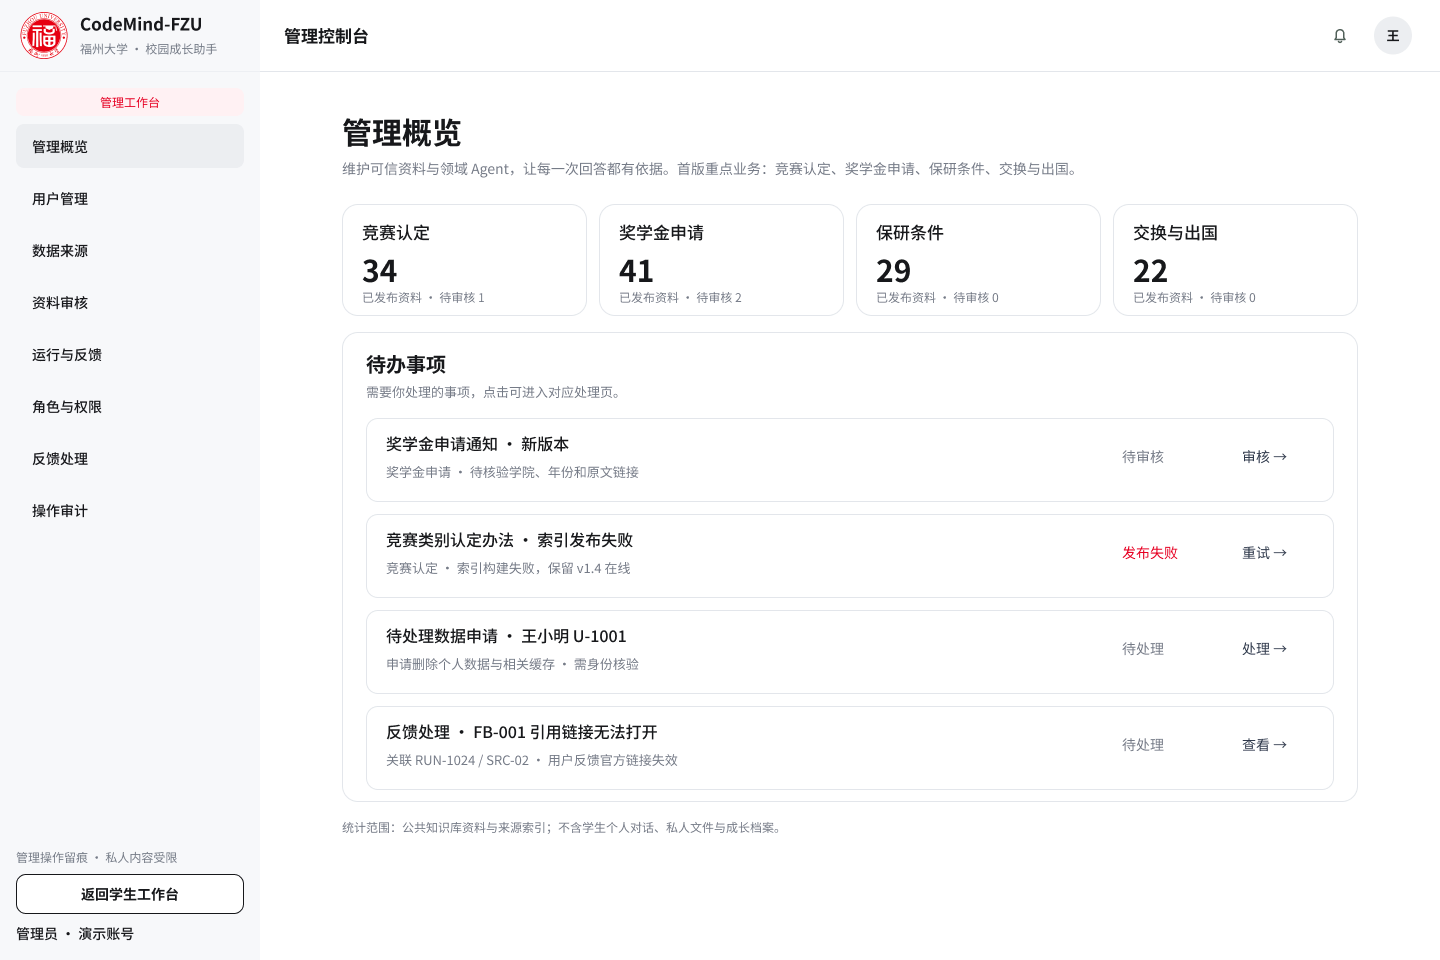
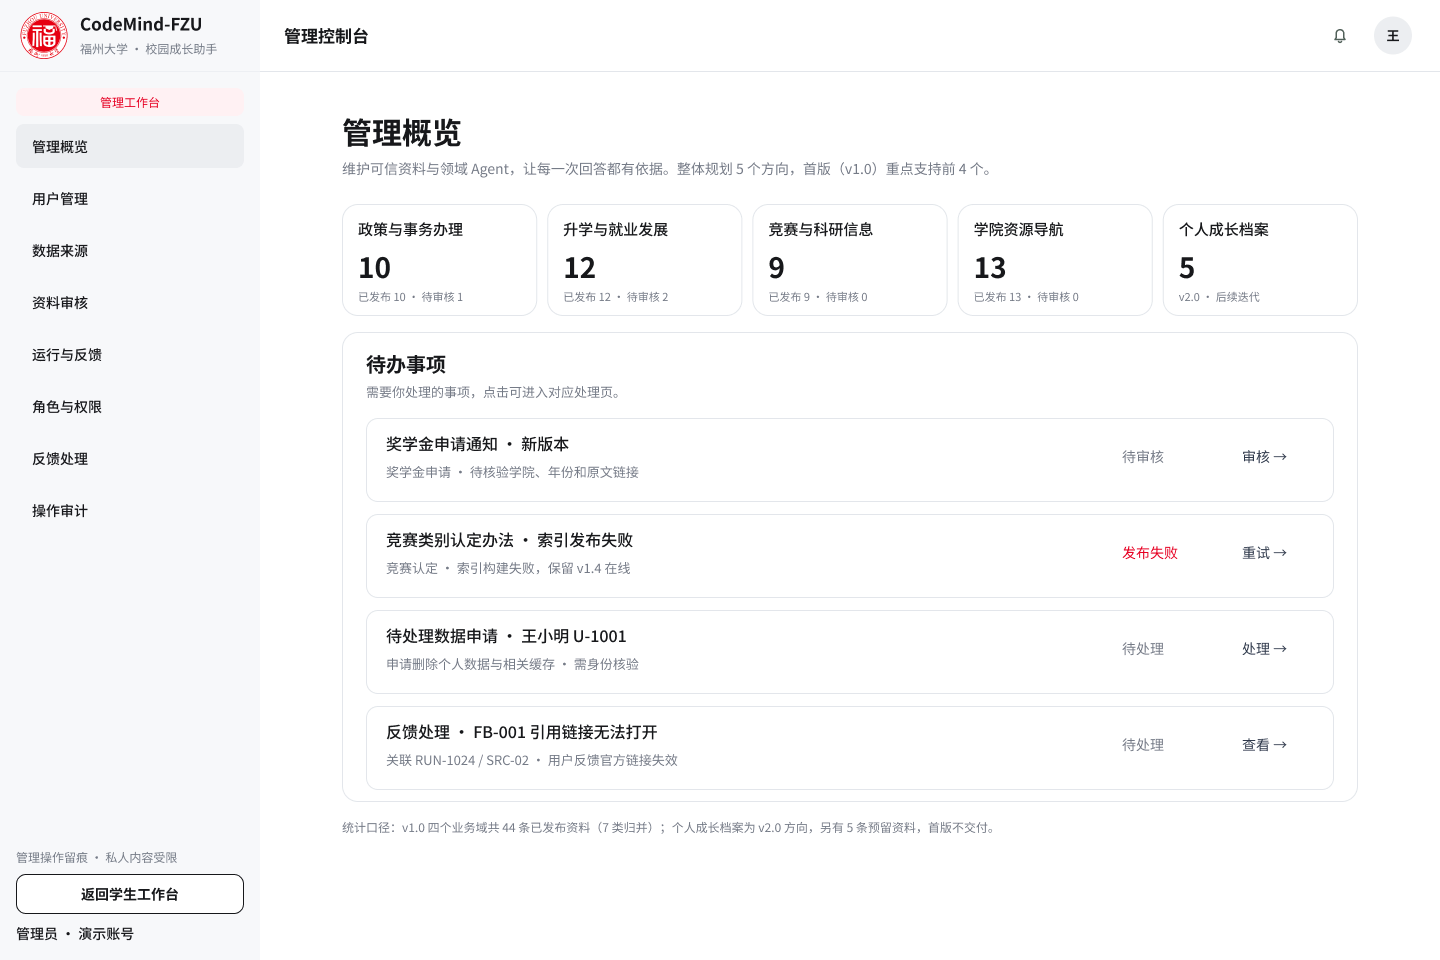
docs(design): A25 对齐产品规划 5 个方向，A36 与历史记录一致
- A25 改为政策与事务办理 / 升学与就业发展 / 竞赛与科研信息 / 学院资源导航（v1.0）+ 个人成长档案（v2.0）
- 卡片数字按知识库 44 条（7 类）归并为 10/12/9/13，v2.0 另注 5 条预留资料
- A36「最近一次管理操作」改为 09:30 发布资料 DOC-008，与历史第一条一致
- README 增加「第二轮补充」对照表，重出 A25 / A36 截图

diff --git a/docs/assignment-02/prototype/admin/README.md b/docs/assignment-02/prototype/admin/README.md
@@ -1,4 +1,4 @@
-# 后台管理原型
+# 后台管理原型
 
 负责人：林彦翔
 
@@ -10,7 +10,7 @@ Figma 在线原型：https://www.figma.com/design/Wan3sZFRzZyAo8JtW3olYV/agent%E
 
 | 编号 | 页面 | 功能说明 | 截图 |
 |---|---|---|---|
-| A25 | 管理概览 | 首版 4 个业务域（竞赛认定 / 奖学金申请 / 保研条件 / 交换与出国）各显示已发布与待审核数；待办事项汇总待审核资料、索引发布失败、数据删除申请与反馈，点击进入对应处理页 | A25_管理概览.png |
+| A25 | 管理概览 | 与产品规划对齐的 5 个方向：政策与事务办理 10 / 升学与就业发展 12 / 竞赛与科研信息 9 / 学院资源导航 13（v1.0）+ 个人成长档案 5（v2.0，标注后续迭代）；资料数按知识库 44 条口径归并；待办事项汇总待审核资料、索引发布失败、数据删除申请与反馈 | A25_管理概览.png |
 | A26 | 资料审核 | 统计卡（3 待审核 / 36 本月已发布 / 1 发布失败）；关键词搜索与「搜索审核资料」按钮；状态筛选（全部 / 待审核 / 已发布 / 已退回）；列表含「发布失败 · 可重试」示例 | A26_资料审核.png |
 | A26b | 资料审核（搜索结果） | 以「奖学金」为例的搜索态：搜索框保留关键词与清空按钮，「全部」下只显示 1 条结果并标注命中数，附搜索建议 | A26b_资料审核（搜索结果）.png |
 | A27 | 资料详情与审核 | 状态条（待审核 / 来源 / 适用，v2 待审核 · v1 仍在线）；来源、文号、类型、日期、时效、适用范围、原文快照与审核要点；审核操作 = 通过并发布 / 拒绝；审核记录区分「审核通过」与「发布索引 v1.4 成功」 | A27_资料详情与审核.png |
@@ -24,7 +24,7 @@ Figma 在线原型：https://www.figma.com/design/Wan3sZFRzZyAo8JtW3olYV/agent%E
 | A34 | 数据来源 | 来源目录（最近同步时间、状态、失败原因）；「索引与版本」摘要（当前索引 v1.4、发布队列、最近同步）；数据生命周期 抓取 → 解析去重 → 质量检查 → 人工审核 → 索引发布 | A34_数据来源.png |
 | A34b | 数据质量与索引 | 质量检查指标（去重率 / 字段完整率 / 原文可访问率 / 解析失败）；索引构建与检索测试；索引版本 v1.4 / v1.3 / v1.2 与回滚 | A34b_数据质量与索引.png |
 | A35 | 反馈处理 | 按反馈关联来源与任务，形成复核、修正、关闭的处理流程 | A35_反馈处理.png |
-| A36 | 操作审计 | 管理员操作留痕：账号、资料、权限变更的记录 | A36_操作审计.png |
+| A36 | 操作审计 | 管理员操作留痕：账号、资料、权限变更的记录；「最近一次管理操作」展示 09:30 发布资料，与历史记录第一条一致 | A36_操作审计.png |
 | A29 | 运行与反馈 | 最近任务（RUN-1024 竞赛类别认定、RUN-1023 奖学金申请、RUN-1021 保研条件），保留任务编号、检索来源、执行状态与异常原因；附异常处理与隐私边界说明 | A29_运行与反馈.png |
 | A30 | 运行详情 | 处理过程 4 步（识别需求 → 检索资料 → 校验适用性 → 生成回答）+ 检索来源（采用 / 排除）+ 状态与异常原因 + 任务编号 | A30_运行详情.png |
 
@@ -42,7 +42,7 @@ Figma 在线原型：https://www.figma.com/design/Wan3sZFRzZyAo8JtW3olYV/agent%E
 
 | 评审意见 | 处理 |
 |---|---|
-| 一、管理概览要明确 4 个业务方向 | A25 的「4 领域 Agent」改为 4 张业务域卡：竞赛认定、奖学金申请、保研条件、交换与出国，并显示各自已发布 / 待审核数量 |
+| 一、管理概览要与最新产品规划统一 | A25 改为 PPT / 产品规划的 5 个方向：政策与事务办理、升学与就业发展、竞赛与科研信息、学院资源导航（v1.0）+ 个人成长档案（v2.0，后续迭代）；卡片数字按知识库 44 条（7 类）归并为 10 / 12 / 9 / 13，v2.0 另注 5 条预留资料 |
 | 二、审核通过与正式发布区分开 | A27 保持一键操作（后台审核方即发布方），但把「发布」作为系统动作显性化：状态条区分 v2 待审核与 v1 在线，审核记录拆成「审核通过」与「发布索引 v1.4 成功」；索引失败时进入「发布失败 · 可重试」并可保留上一可用版本；A26 增加对应状态示例 |
 | 二、保留原文快照、适用范围、有效期、来源链接与审核记录 | A27 全部保留，并补充版本信息 |
 | 二、编辑后重新进入审核，不覆盖已发布版本 | A37 只保留 保存，保存生成 v2 待审核版本；审核通过后才替换 v1 |
@@ -54,6 +54,15 @@ Figma 在线原型：https://www.figma.com/design/Wan3sZFRzZyAo8JtW3olYV/agent%E
 | 四、用户编辑的「角色」易与后台权限混淆 | A38 改为「身份类型」，并加「用户身份 ≠ 后台权限」说明；A33 权限表保留后台角色 |
 | 五、数据来源补充质量检查、索引构建与检索测试、索引版本与同步失败原因、版本回滚 | A34 增加「索引与版本」摘要卡；新增 A34b 承载质量指标、检索测试、索引版本与回滚 |
 | 六、检查五个页面跳转链路 | 管理概览→资料审核→资料详情、运行与反馈→运行详情、用户管理→用户详情→用户编辑、角色与权限→权限编辑态、数据来源→待审核资料 均已接线；另补 A26 关键词搜索 → A26b 搜索结果 |
+
+## 第二轮补充（合并前）
+
+| 评审意见 | 处理 |
+|---|---|
+| A25 四个业务域与最新产品规划统一，交换与出国不属于首版场景 | 改为 5 个方向（4 个 v1.0 + 个人成长档案 v2.0），数字按知识库 44 条归并为 10 / 12 / 9 / 13 |
+| A36 上方「暂无新操作」与下方三条历史矛盾 | 上方改为「09:30 ADM-001 发布资料 DOC-008 审核通过 / 成功」，与历史第一条一致 |
+| PR 描述截图数量仍写 20 张（15+5） | PR 描述更新为 22 张（17 个页面 + 5 个弹窗） |
+| 合并前再检查页面跳转 | 用只读校验插件逐条核对 33 条必需链路，结果 **33 / 33 通过** |
 
 ## 补充说明
 
